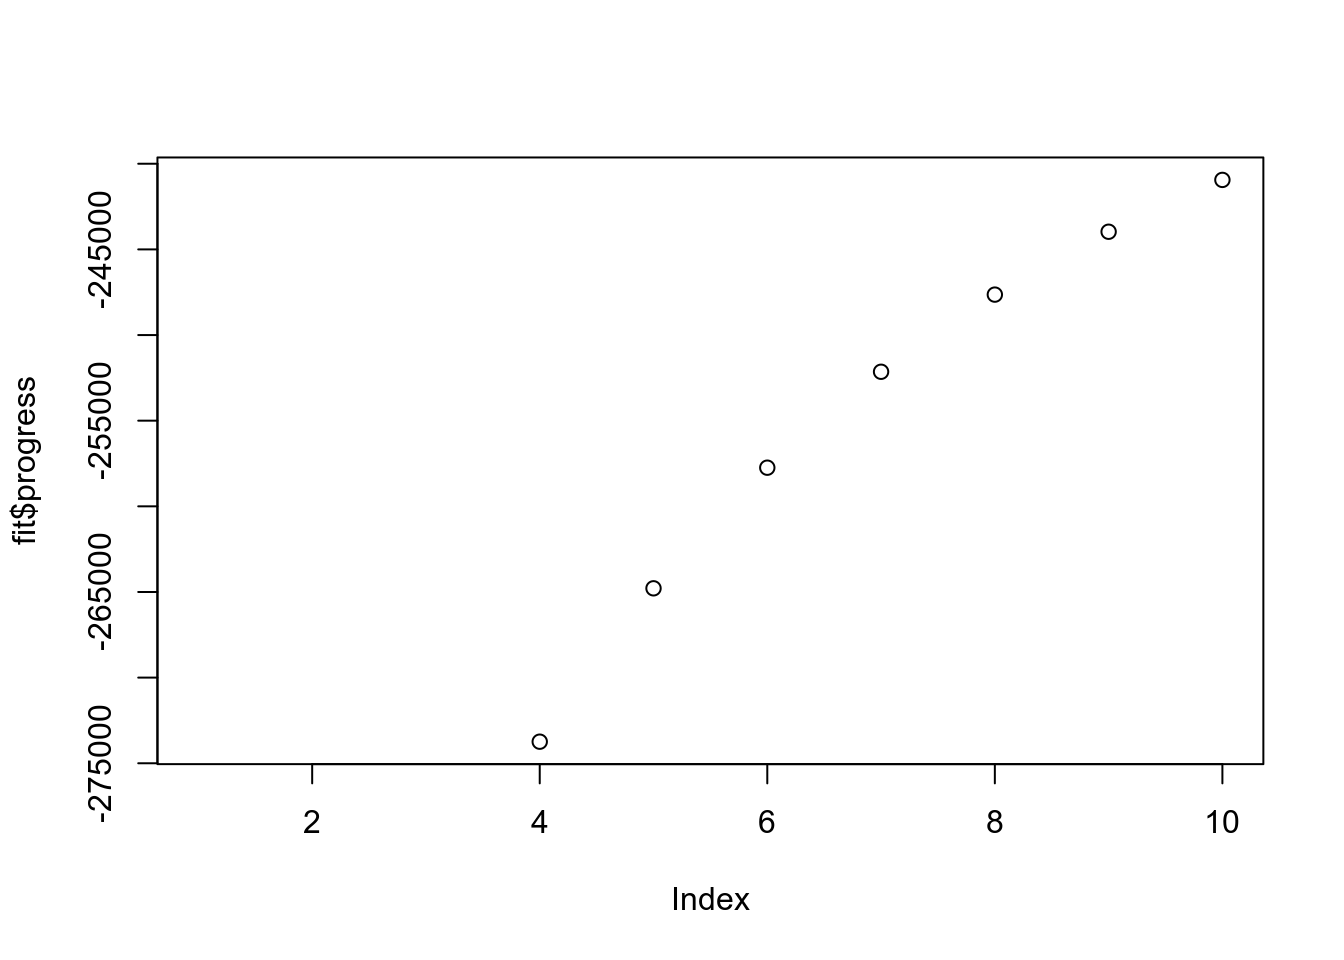
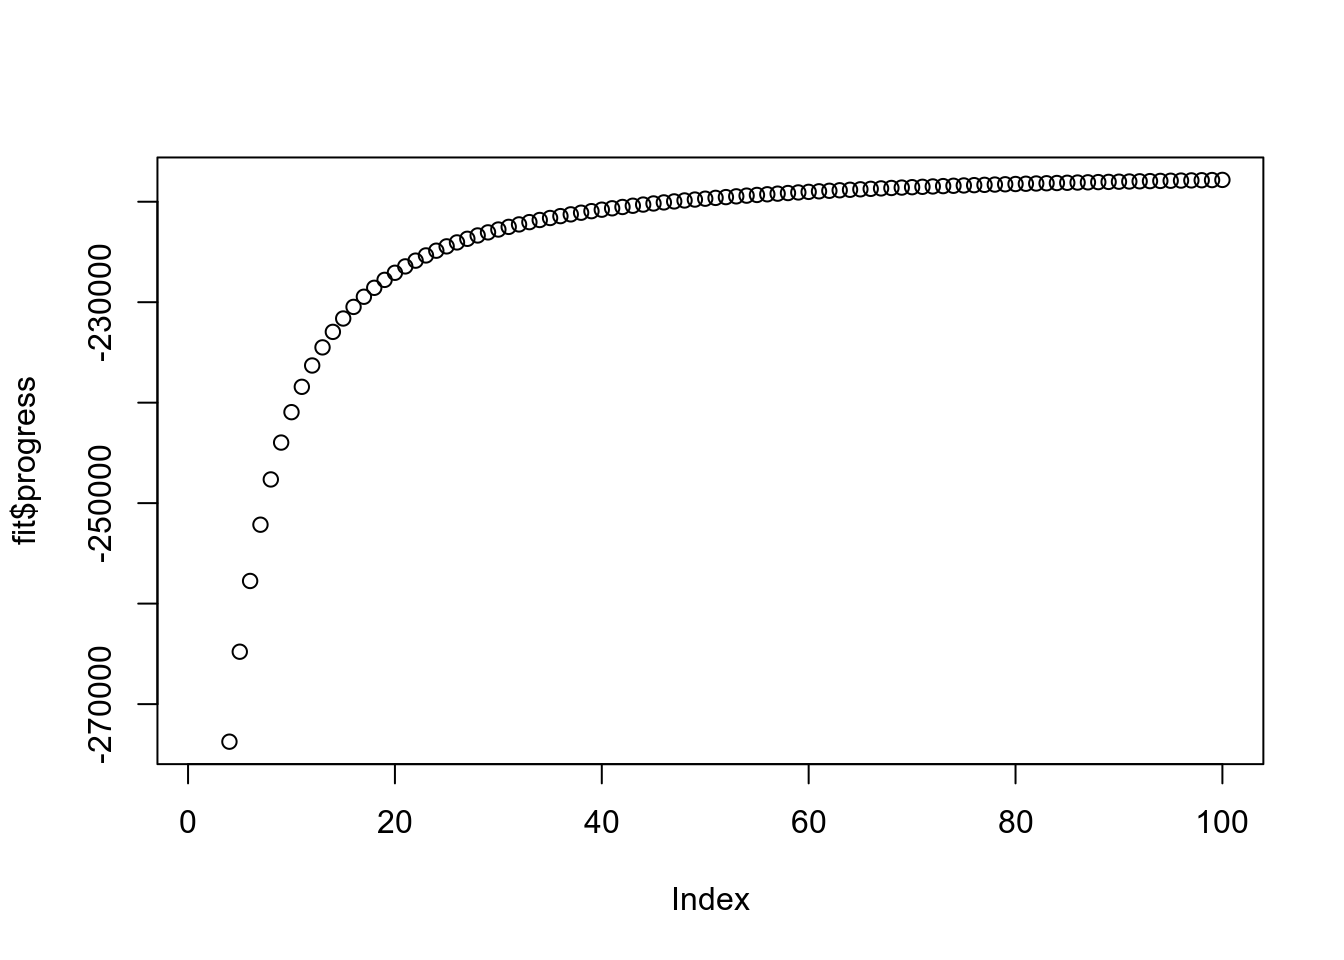
Build site.

diff --git a/docs/experiment_ebpm_bg_kos2.html b/docs/experiment_ebpm_bg_kos2.html
@@ -503,10 +503,10 @@ This reproducible <a href="http://rmarkdown.rstudio.com">R Markdown</a> analysis
 <div class="panel panel-default">
 <div class="panel-heading">
 <p class="panel-title">
-<a data-toggle="collapse" data-parent="#workflowr-checks" href="#strongRepositoryversionstrongahrefhttpsgithubcomzihao12ebpmfdemotreeeb9da1bf3b76b85eb9c5f3b295fefc359be4a8a5targetblankeb9da1ba"> <span class="glyphicon glyphicon-ok text-success" aria-hidden="true"></span> <strong>Repository version:</strong> <a href="https://github.com/zihao12/ebpmf_demo/tree/eb9da1bf3b76b85eb9c5f3b295fefc359be4a8a5" target="_blank">eb9da1b</a> </a>
+<a data-toggle="collapse" data-parent="#workflowr-checks" href="#strongRepositoryversionstrongahrefhttpsgithubcomzihao12ebpmfdemotreee58a300d090d7cfbc8f973da2997bfb86db66d1atargetblanke58a300a"> <span class="glyphicon glyphicon-ok text-success" aria-hidden="true"></span> <strong>Repository version:</strong> <a href="https://github.com/zihao12/ebpmf_demo/tree/e58a300d090d7cfbc8f973da2997bfb86db66d1a" target="_blank">e58a300</a> </a>
 </p>
 </div>
[2 lines of base64/hex data omitted]
 <div class="panel-body">
 <p>
 Great! You are using Git for version control. Tracking code development and connecting the code version to the results is critical for reproducibility. The version displayed above was the version of the Git repository at the time these results were generated. <br><br> Note that you need to be careful to ensure that all relevant files for the analysis have been committed to Git prior to generating the results (you can use <code>wflow_publish</code> or <code>wflow_git_commit</code>). workflowr only checks the R Markdown file, but you know if there are other scripts or data files that it depends on. Below is the status of the Git repository when the results were generated:
@@ -601,6 +601,40 @@ Message
 Rmd
 </td>
 <td>
+<a href="https://github.com/zihao12/ebpmf_demo/blob/e58a300d090d7cfbc8f973da2997bfb86db66d1a/analysis/experiment_ebpm_bg_kos2.Rmd" target="_blank">e58a300</a>
+</td>
+<td>
+zihao12
+</td>
+<td>
+2020-05-01
+</td>
+<td>
+kos exper 2
+</td>
+</tr>
+<tr>
+<td>
+html
+</td>
+<td>
+<a href="https://rawcdn.githack.com/zihao12/ebpmf_demo/51b0d1d16793240f2d05aea6795b81e1f592895f/docs/experiment_ebpm_bg_kos2.html" target="_blank">51b0d1d</a>
+</td>
+<td>
+zihao12
+</td>
+<td>
+2020-05-01
+</td>
+<td>
+Build site.
+</td>
+</tr>
+<tr>
+<td>
+Rmd
+</td>
+<td>
 <a href="https://github.com/zihao12/ebpmf_demo/blob/eb9da1bf3b76b85eb9c5f3b295fefc359be4a8a5/analysis/experiment_ebpm_bg_kos2.Rmd" target="_blank">eb9da1b</a>
 </td>
 <td>
@@ -677,7 +711,7 @@ get_Y &lt;- function(X,L, F ,K){
 Y = get_Y(X = X, L = L, F = F, K = K)
 
 ## fit model
-maxiter = 10
+maxiter = 100
 a_L = c(seq(0.01, 0.10, 0.01), seq(0.2, 0.9, 0.1), seq(1,15,2), 20, 50, 75, 100, 200, 1e3)
 grids= list(al = a_L, bl = a_L)
 
@@ -692,12 +726,86 @@ sum(Y_rs==0)/p</code></pre>
 <pre><code>[1] 0</code></pre>
 <pre class="r"><code>runtime</code></pre>
 <pre><code>   user  system elapsed 
- 43.586   0.192  31.708 </code></pre>
+398.534   0.549 306.826 </code></pre>
 <pre class="r"><code>plot(fit$progress)</code></pre>
 <p><img src="figure/experiment_ebpm_bg_kos2.Rmd/unnamed-chunk-3-1.png" width="672" style="display: block; margin: auto;" /></p>
+<p>
+<button type="button" class="btn btn-default btn-xs btn-workflowr btn-workflowr-fig" data-toggle="collapse" data-target="#fig-unnamed-chunk-3-1">
+Past versions of unnamed-chunk-3-1.png
+</button>
+</p>
+<div id="fig-unnamed-chunk-3-1" class="collapse">
+<div class="table-responsive">
+<table class="table table-condensed table-hover">
+<thead>
+<tr>
+<th>
+Version
+</th>
+<th>
+Author
+</th>
+<th>
+Date
+</th>
+</tr>
+</thead>
+<tbody>
+<tr>
+<td>
+<a href="https://github.com/zihao12/ebpmf_demo/blob/51b0d1d16793240f2d05aea6795b81e1f592895f/docs/figure/experiment_ebpm_bg_kos2.Rmd/unnamed-chunk-3-1.png" target="_blank">51b0d1d</a>
+</td>
+<td>
+zihao12
+</td>
+<td>
+2020-05-01
+</td>
+</tr>
+</tbody>
+</table>
+</div>
+</div>
 <pre class="r"><code>Lam = fit$mu * fit$posterior$mean
 plot(F, Lam)</code></pre>
 <p><img src="figure/experiment_ebpm_bg_kos2.Rmd/unnamed-chunk-4-1.png" width="672" style="display: block; margin: auto;" /></p>
+<p>
+<button type="button" class="btn btn-default btn-xs btn-workflowr btn-workflowr-fig" data-toggle="collapse" data-target="#fig-unnamed-chunk-4-1">
+Past versions of unnamed-chunk-4-1.png
+</button>
+</p>
+<div id="fig-unnamed-chunk-4-1" class="collapse">
+<div class="table-responsive">
+<table class="table table-condensed table-hover">
+<thead>
+<tr>
+<th>
+Version
+</th>
+<th>
+Author
+</th>
+<th>
+Date
+</th>
+</tr>
+</thead>
+<tbody>
+<tr>
+<td>
+<a href="https://github.com/zihao12/ebpmf_demo/blob/51b0d1d16793240f2d05aea6795b81e1f592895f/docs/figure/experiment_ebpm_bg_kos2.Rmd/unnamed-chunk-4-1.png" target="_blank">51b0d1d</a>
+</td>
+<td>
+zihao12
+</td>
+<td>
+2020-05-01
+</td>
+</tr>
+</tbody>
+</table>
+</div>
+</div>
 <pre class="r"><code>saveRDS(list(Y = Y, fit = fit, runtime = runtime), &quot;analysis/experiment_ebpm_bg_kos_data.Rds&quot;)</code></pre>
 <br>
 <p>
